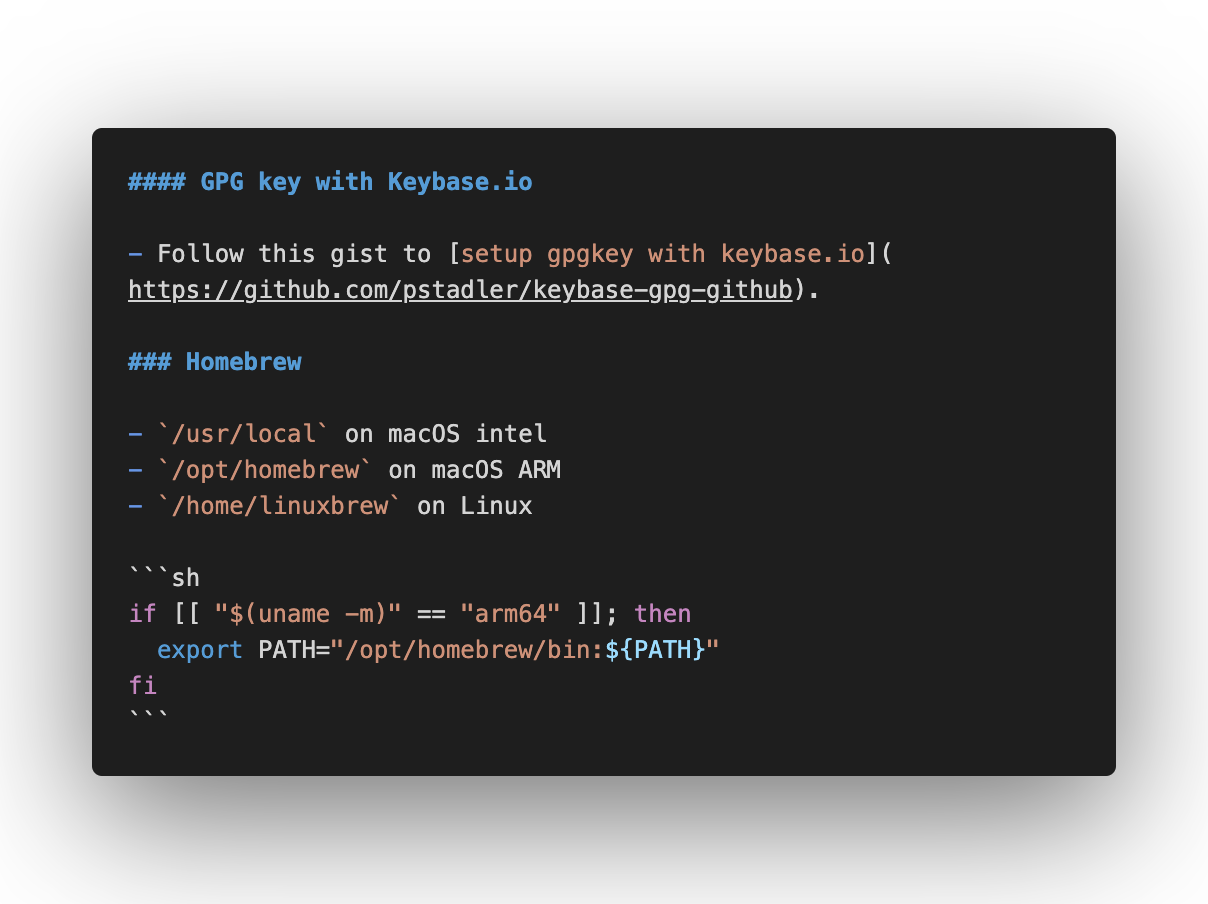
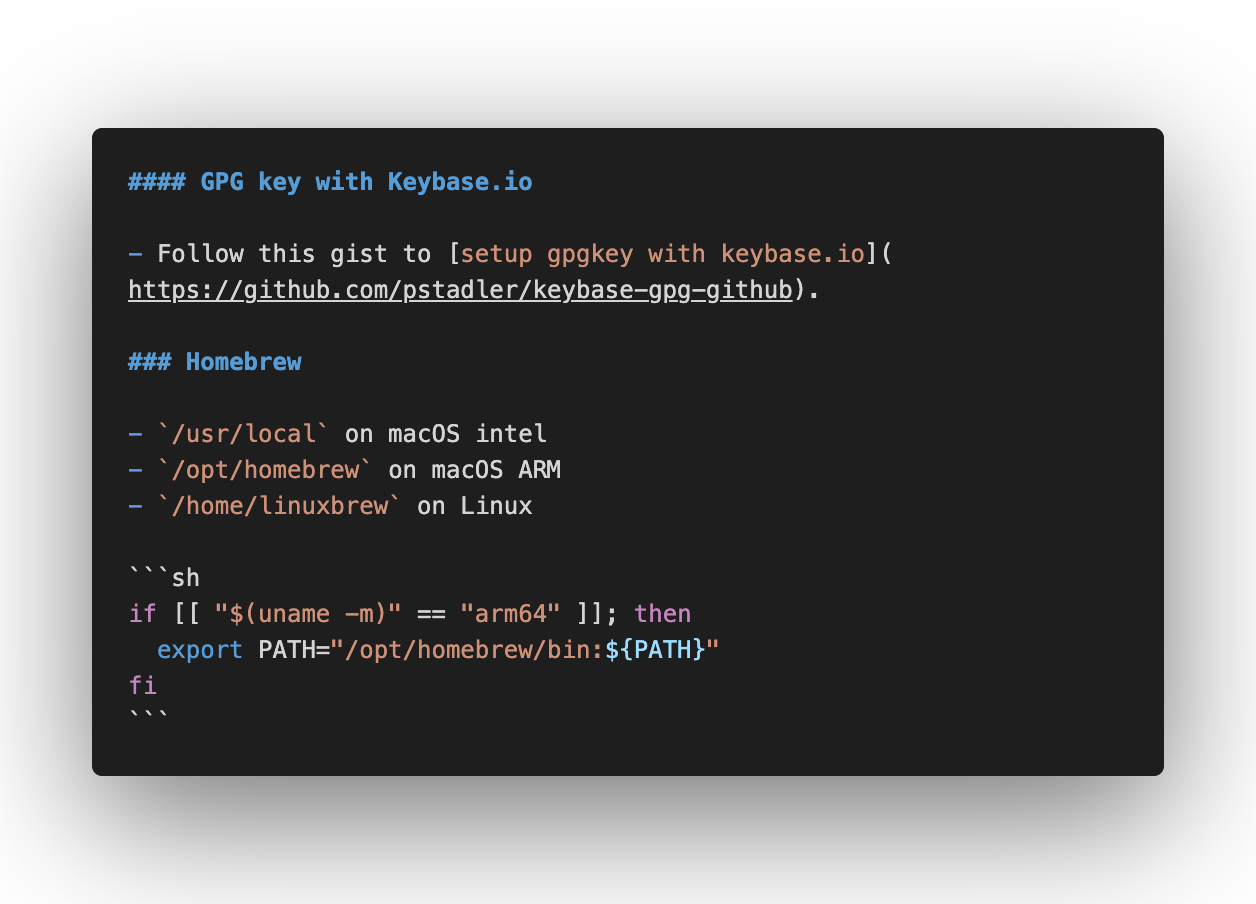
:books: docs: update vscode img

Changed region(s): [[0.0613, 0.1549, 0.7351, 0.8363], [0.1225, 0.4646, 0.4594, 0.5885], [0.9189, 0.1549, 0.9495, 0.8363]]

diff --git a/README.md b/README.md
@@ -14,7 +14,7 @@
 
 - A dogmatic script to set up my mac. Built for Mac OS X :fire: :fire:
 
-<img src="https://raw.githubusercontent.com/murshidazher/dotfiles-m1/main/docs/images/vscode.png" width="600px">
+<img src="https://raw.githubusercontent.com/murshidazher/dotfiles-m1/main/docs/images/code.png" width="600px">
 
 ## Table of Contents
 
